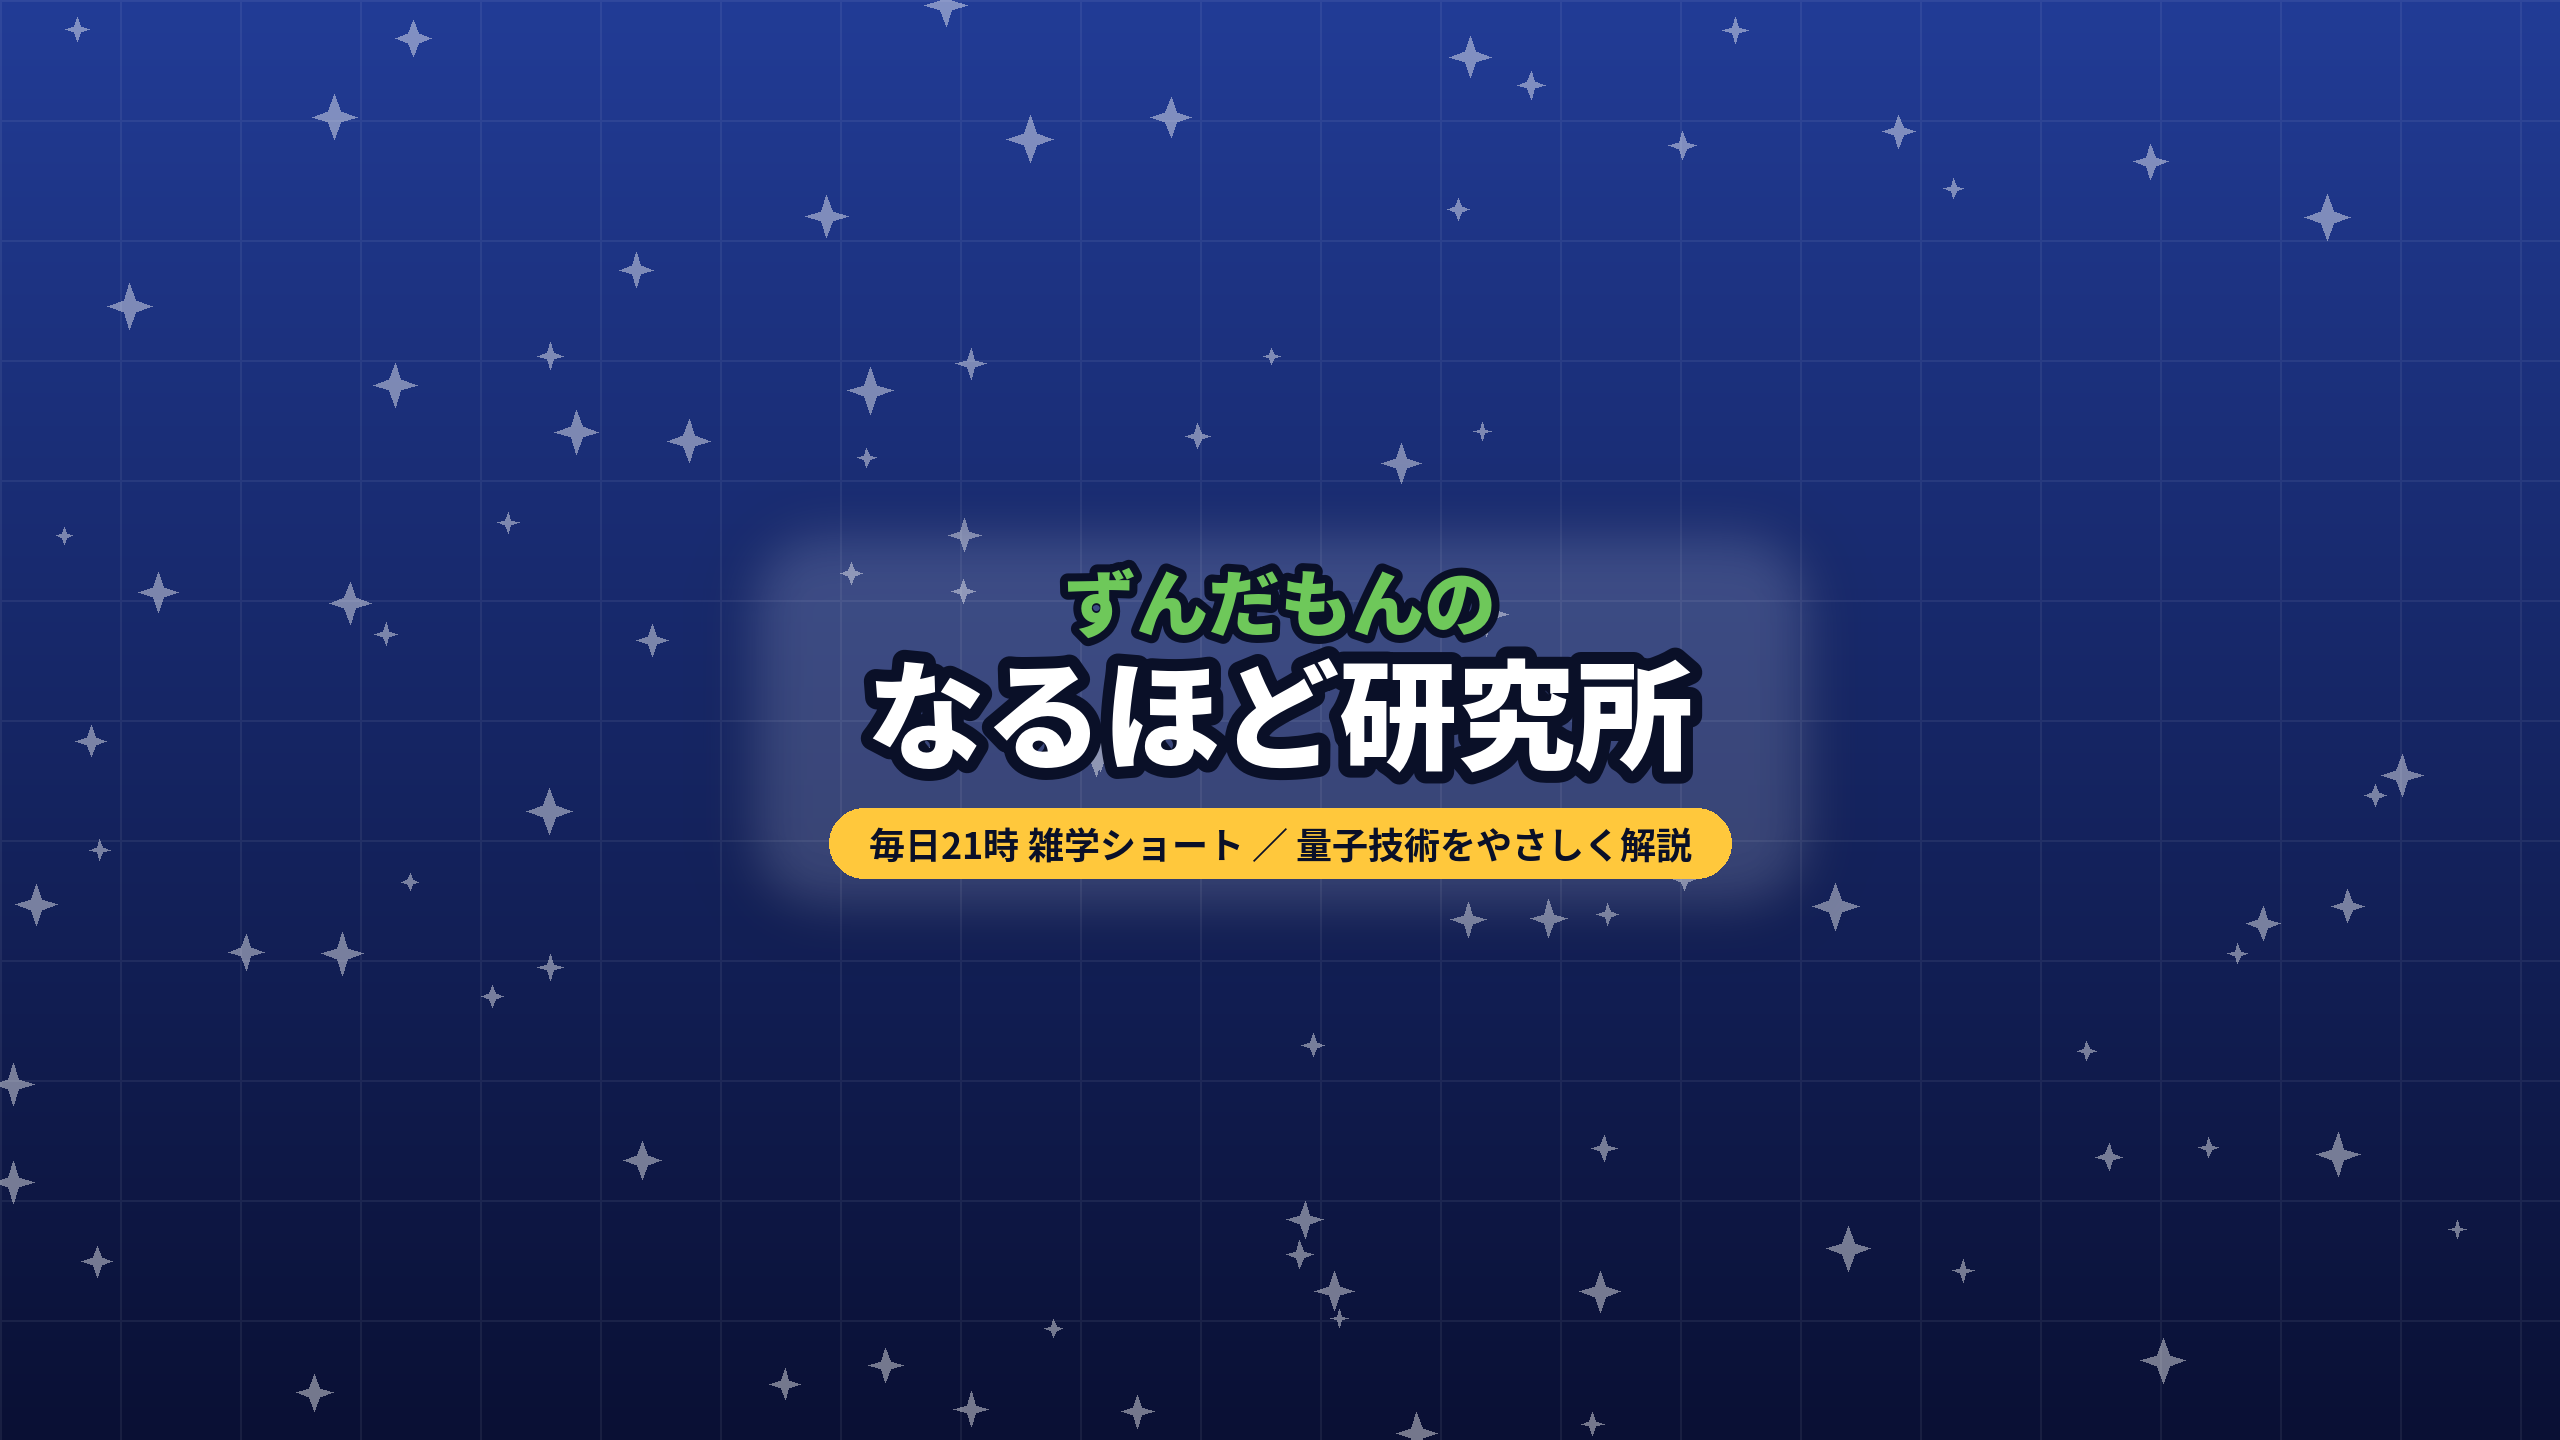
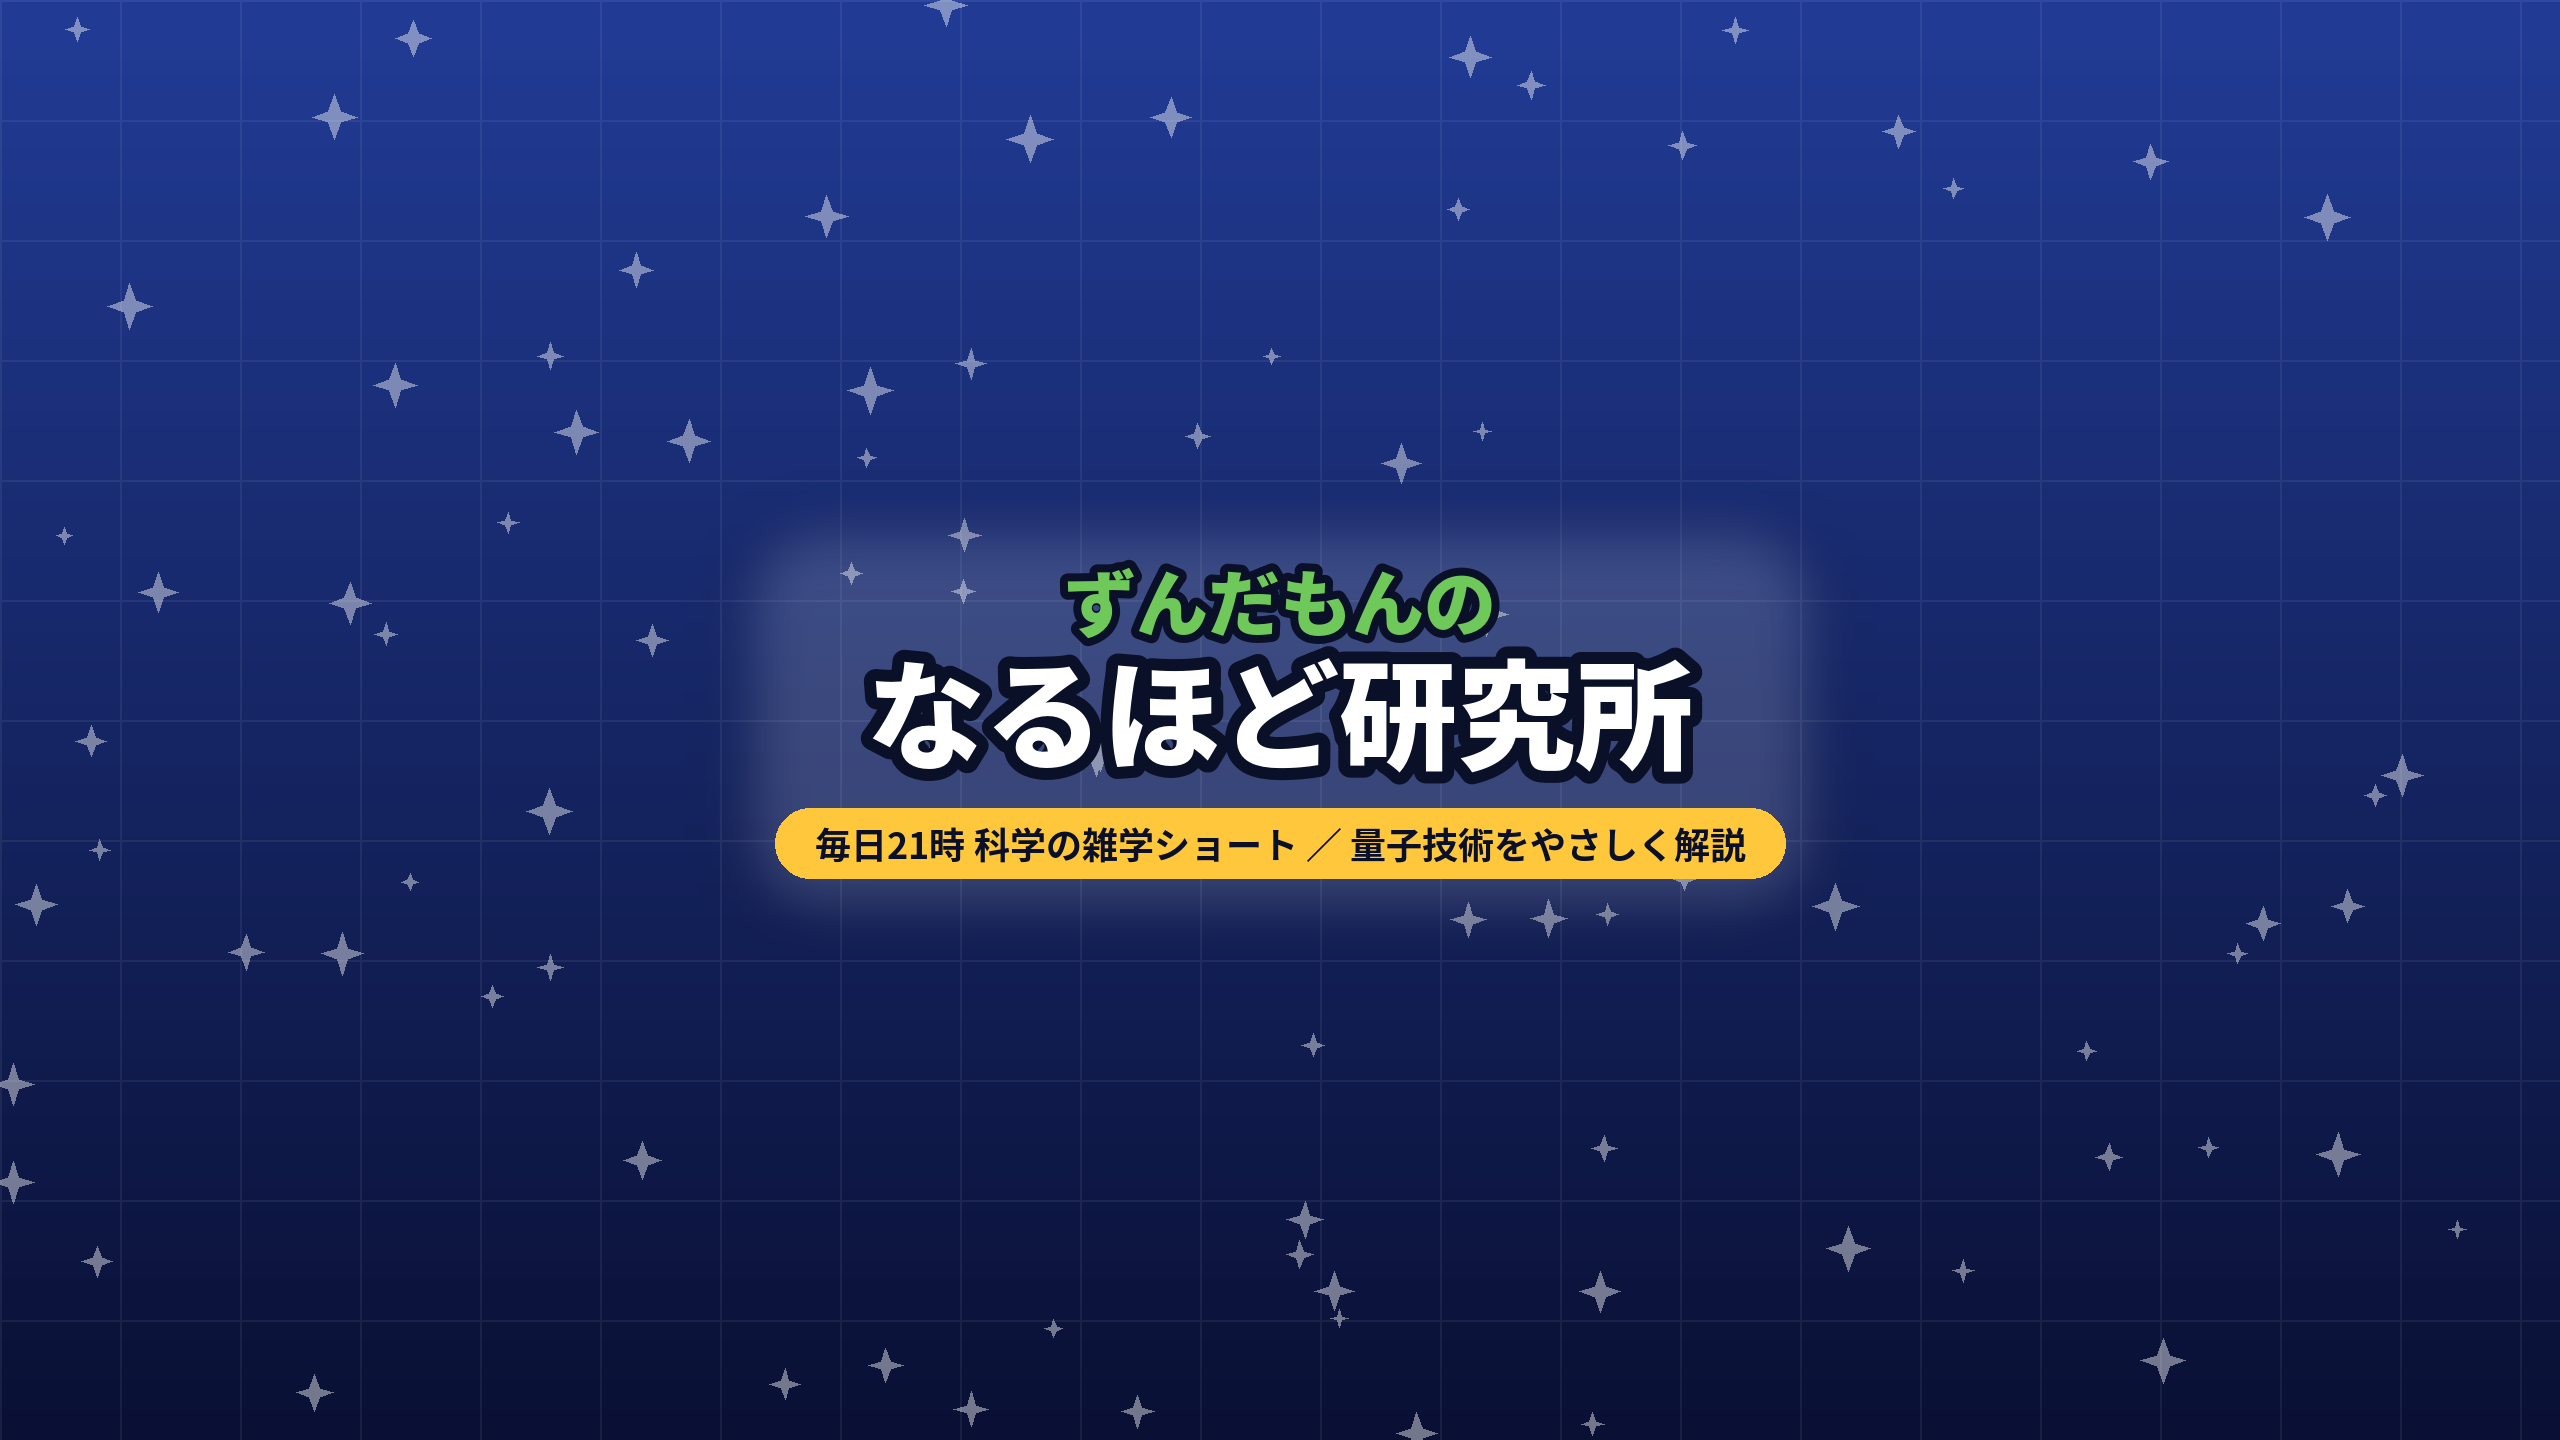
毎日のショートを「科学の雑学」に絞る（テーマ候補30本・バナーと説明欄の文言）
Claude-Session: https://claude.ai/code/session_01MzmbYW51uYHDEvUvLbV54E

Changed region(s): [[0.2812, 0.5625, 0.7188, 0.625]]

diff --git a/tools/trivia_short.py b/tools/trivia_short.py
@@ -143,7 +143,7 @@ def write_metadata(cfg, here, total):
     src = "\n".join(f"{lab}\n{url}" for lab, url in m["sources"])
     desc = (m["lead"] + "\n\n" + "\n".join("・" + p for p in m["points"]) + "\n\n"
             + "【しくみ】" + m["principle"] + "\n\n"
-            + "📅 毎日1本、雑学ショートを投稿中。フォローで明日の雑学も！\n\n"
+            + "📅 毎日21時、科学の雑学ショートを投稿中。フォローで明日の「なるほど」も！\n\n"
             + "出典:\n" + src + "\n\n"
             + "音声: VOICEVOX:ずんだもん / VOICEVOX:四国めたん\n立ち絵: 坂本アヒル\n\n"
             + " ".join(m["hashtags"]))
@@ -158,7 +158,7 @@ def write_metadata(cfg, here, total):
         md += ["**ほかの候補**\n"] + [code(t) for t in m["alt_titles"]]
     md += ["**説明欄**\n", code(desc), "**タグ**（タグ欄に貼る）\n", code(tags),
            "**固定コメント**\n", code(m["pinned"]),
-           "**設定**：カテゴリ「教育」/ 再生リスト「毎日雑学ショート」/ ショートの説明欄のURLは押せないので、"
+           "**設定**：カテゴリ「教育」/ 再生リスト「毎日の科学雑学」/ ショートの説明欄のURLは押せないので、"
            "長尺につなぐときは「関連動画」で設定する\n"]
     if m.get("notes"):
         md += ["\n**事実確認のメモ**\n"] + [f"- {n}\n" for n in m["notes"]]

diff --git a/tools/channel_art.py b/tools/channel_art.py
@@ -127,7 +127,7 @@ def banner(path, l1, l2, tagline):
 
 def main():
     l1, l2 = (sys.argv[1], sys.argv[2]) if len(sys.argv) > 2 else ("ずんだもんの", "なるほど研究所")
-    tag = sys.argv[3] if len(sys.argv) > 3 else "毎日21時 雑学ショート ／ 量子技術をやさしく解説"
+    tag = sys.argv[3] if len(sys.argv) > 3 else "毎日21時 科学の雑学ショート ／ 量子技術をやさしく解説"
     os.makedirs(OUT, exist_ok=True)
     icon(os.path.join(OUT, "icon.png"))
     banner(os.path.join(OUT, "banner.png"), l1, l2, tag)

diff --git a/trivia_daily/TOPICS.md b/trivia_daily/TOPICS.md
@@ -1,0 +1,38 @@
+# 科学の雑学ショート テーマ候補
+
+毎日の予約（夜9時）は、この表の上から順に、前日と違う分野になるように選ぶ。
+使ったら「済」に日付を入れる。1本ごとに「なぜそうなるか（原理）」を必ず説明する。
+数字や主張は、作るときに論文・大学・公的機関・百科事典で確かめ直す（ここに書いたのはまだ確認前の見出し）。
+
+| 済 | 分野 | テーマ（問いかけ） | 説明する原理 |
+|---|---|---|---|
+| 11/05 | 生物 | タコの心臓は3つ・血は青い | ヘモシアニン（銅）と酸素、えら心臓 |
+|  | 物理 | 空はなぜ青い？夕焼けはなぜ赤い？ | レイリー散乱（波長が短い光ほど散らばる） |
+|  | 化学 | 氷はなぜ水に浮く？ | 水素結合で隙間の多い結晶になり、密度が下がる |
+|  | 人体 | しゃっくりはなぜ出る？ | 横隔膜のけいれんと声門が閉じる反射 |
+|  | 宇宙 | 宇宙で涙は流れない？ | 重力がないと表面張力で水が丸くまとまる |
+|  | 地球 | 雷はなぜ光ってから音がする？ | 光と音の速さのちがい（約30万km/秒と約340m/秒） |
+|  | 生物 | ネコはなぜ高い所から落ちても着地できる？ | 角運動量を保ったまま体をひねる（立ち直り反射） |
+|  | 物理 | 電子レンジはなぜ食べ物を温められる？ | マイクロ波で水分子がゆさぶられ熱になる |
+|  | 化学 | 玉ねぎを切るとなぜ涙が出る？ | 酵素反応で催涙成分ができ、目の神経を刺激する |
+|  | 人体 | 指をポキッと鳴らすと何が起きている？ | 関節の液の圧力が下がり、気泡ができる（キャビテーション） |
+|  | 宇宙 | 月はいつも同じ面を向けている | 潮汐ロック（自転と公転の周期がそろう） |
+|  | 地球 | 富士山の上ではお湯が100℃にならない | 気圧が低いと沸点が下がる |
+|  | 生物 | ハチドリの心拍数は1分間に1000回以上？ | 体が小さいほど熱が逃げやすく代謝が高い |
+|  | 物理 | 鏡はなぜ左右だけ逆に見える？ | 実は前後が逆。左右反転は見る側の思い込み |
+|  | 化学 | ドライアイスはなぜ溶けずに煙になる？ | 昇華（常圧では液体にならない） |
+|  | 人体 | 人の骨は大人で約206個、赤ちゃんはもっと多い | 骨が成長とともにくっつく（癒合） |
+|  | 宇宙 | 金星は自転が逆回り・1日が1年より長い | 自転周期と公転周期 |
+|  | 技術 | GPSは相対性理論がないとずれる | 速さと重力で時計の進みが変わる |
+|  | 生物 | クマムシはなぜ乾燥しても生き返る？ | 乾眠（体を守る糖やタンパク質） |
+|  | 物理 | 冬に静電気がバチッとなるのはなぜ？ | 乾燥すると電気が逃げにくく、たまって放電する |
+|  | 化学 | 金はなぜさびない？ | イオンになりにくい（イオン化傾向が小さい） |
+|  | 人体 | 寝ているときに体がビクッとするのはなぜ？ | 入眠時ミオクローヌス（脳と筋肉の切り替え） |
+|  | 地球 | 南極の氷の下に湖がある | 氷の重さの圧力と地熱で融点が下がる・温まる |
+|  | 技術 | スマホの画面はなぜ指だけに反応する？ | 静電容量方式（指が電気をためる） |
+|  | 生物 | 植物はなぜ緑色？ | クロロフィルが赤と青の光を吸い、緑を反射する |
+|  | 物理 | シャボン玉はなぜ虹色？ | 薄い膜での光の干渉 |
+|  | 宇宙 | 星の光は昔の光 | 光の速さは有限。光年は距離の単位 |
+|  | 化学 | 炭酸はなぜ開けるとシュワッとする？ | 圧力が下がると気体が溶けきれなくなる（ヘンリーの法則） |
+|  | 人体 | 腸には約5億個の神経細胞がある？ | 腸管神経系（第2の脳） |
+|  | 地球 | 地球の内側（中心）は太陽の表面くらい熱い | 地球の内部構造と内核の温度 |

diff --git a/trivia_daily/2026-11-05_octopus/metadata.md b/trivia_daily/2026-11-05_octopus/metadata.md
@@ -23,7 +23,7 @@
 
 【しくみ】ヒトの血の赤は、ヘモグロビンの鉄が酸素と結びついた色。タコのヘモシアニンは銅が酸素と結びつくと青く、酸素がはなれるとほぼ無色になります。えらの細い血管に血を通すには強い力が必要なので、えら専用のポンプ（えら心臓）があり、体の心臓は酸素をもらった血を全身へ送ります。泳ぐときは体（外とう膜）を強くしめて水を噴き出すため、体の中の圧力が上がって血が心臓に戻りにくくなり、体の心臓が止まると考えられています。
 
-📅 毎日1本、雑学ショートを投稿中。フォローで明日の雑学も！
+📅 毎日21時、科学の雑学ショートを投稿中。フォローで明日の「なるほど」も！
 
 出典:
 Wells et al. (1987)「Blood flow and pressure changes in exercising octopuses」J. Exp. Biol. 131, 175–187
@@ -46,7 +46,7 @@ https://www.britannica.com/science/hemocyanin
 ```
 ほかにも「えっ、そうなの！？」な生き物の体の秘密、知ってたらコメントで教えてください！明日の雑学の参考にします🐙
 ```
-**設定**：カテゴリ「教育」/ 再生リスト「毎日雑学ショート」/ ショートの説明欄のURLは押せないので、長尺につなぐときは「関連動画」で設定する
+**設定**：カテゴリ「教育」/ 再生リスト「毎日の科学雑学」/ ショートの説明欄のURLは押せないので、長尺につなぐときは「関連動画」で設定する
 
 **事実確認のメモ**
 - 「泳ぐと心臓が止まる」は Wells ほか(1987) の要旨「ジェット推進には心停止がともなう」に基づく。止まるのは体の心臓で、一時的なもの。

diff --git a/trivia_daily/README.md b/trivia_daily/README.md
@@ -1,6 +1,6 @@
 # 毎日の雑学ショート
 
-1日1本、`YYYY-MM-DD_テーマ/topic.py` に台本・図・投稿用メタデータを書き、次のコマンドで作ります。
+科学の雑学を1日1本（テーマ候補は `TOPICS.md`）。`YYYY-MM-DD_テーマ/topic.py` に台本・図・投稿用メタデータを書き、次のコマンドで作ります。
 
 ```
 bash tools/voicevox_engine.sh
@@ -11,4 +11,4 @@ python3 tools/trivia_short.py trivia_daily/2026-11-05_octopus/topic.py
 
 | 日付 | テーマ | フォルダ |
 |---|---|---|
-| 2026-11-05 | タコの心臓は3つ・血は青い | `2026-11-05_octopus/` |
+| 2026-11-05 | タコの心臓は3つ・血は青い（生物） | `2026-11-05_octopus/` |
